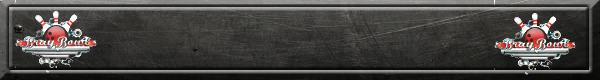
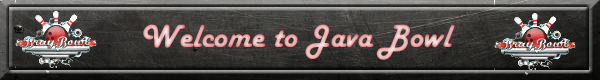
merged with the most recent version. this version has the animation and bg image at full opacity. will have a look at the booking forms to get payment details at a later stage

Changed region(s): [[0.24, 0.3, 0.78, 0.75]]

diff --git a/src/controller/WelcomeAnimation.java b/src/controller/WelcomeAnimation.java
@@ -6,62 +6,53 @@ import java.awt.*;
 /**
  * Created by User on 08/04/2015.
  */
-public class WelcomeAnimation extends JComponent {
+public class WelcomeAnimation extends JPanel {
 
-    private Image pins, barrier;
-    private int x = 0;
-    private int y = 0;
-    private boolean movingDown = true;
-    private boolean finished;
-    private boolean grabbed;
+        //System.out.println("      #########################   In the welcome class  ##################");
 
-    public WelcomeAnimation() {
-        Thread animationThread = new Thread(new Runnable() {
-            public void run() {
 
-                while (!finished) {
-                    System.out.println("         --------------------                  in thw while loop "+y);
-                    repaint();
-                    try {
-                        Thread.sleep(15);
-                        System.out.println("         --------------------                  INSIDE welcome animation k    y =  "+y);
-                    } catch (Exception ex) {
+        private JPanel hope;
+        private Image pins, barrier;
+        private int x ;
+        private int y ;
+        private boolean movingDown = true;
+        private boolean finished;
+        private boolean grabbed;
+
+        public WelcomeAnimation(int width, int height) {
+
+            x= 125;
+            y= 0;
+
+            final Thread animationThread;
+            animationThread = new Thread(new Runnable() {
+                public void run() {
+                    while (!finished) {
+                        repaint();
+                        try {
+                            Thread.sleep(15);
+                            System.out.println("         --------------------                  INSIDE welcome animation --    y = " + y);
+                        } catch (Exception ex) {
+                        }
                     }
                 }
-            }
-        });
+            });
 
-        animationThread.start();
-    }
+            animationThread.setDaemon(true);
+            animationThread.start();
 
-    public void beginOperations()
-    {
-        Thread animationThread = new Thread(new Runnable() {
-            public void run() {
+        }
 
-                while (!finished) {
-                    //repaint();
-                    try {
-                        Thread.sleep(150);
-                        System.out.println("         --------------------                  INSIDE welcome animation k    y =  "+y);
-                    } catch (Exception ex) {
-                    }
-                }
-            }
-
-
-        });
-
-        animationThread.start();
-
+    public boolean isFinished() {
+        return finished;
     }
 
     public void paintComponent(Graphics g) {
         System.out.println("In Repaint");
+        super.paintComponent(g);
         Graphics2D gg = (Graphics2D) g;
         ImageIcon p = new ImageIcon("C:/Users/User/Documents/GitBowling/3BallSplitBowling/src/lib/bowling-pins-600-300x300.png");
         ImageIcon b = new ImageIcon("C:/Users/User/Documents/GitBowling/3BallSplitBowling/src/lib/files/barrier.png");
-
 
         barrier = b.getImage();
         pins = p.getImage();
@@ -71,36 +62,25 @@ public class WelcomeAnimation extends JComponent {
         System.out.println("In Repaint 2");
         gg.drawImage(pins, x, y - 600, this);
         gg.drawImage(barrier, x, y-300, this);
-        Font text = new Font("Arial", Font.BOLD, 12);
+        Font text = new Font("Arial", Font.BOLD, 18);
         gg.setFont(text);
         gg.setColor(Color.YELLOW);
-        gg.drawString("WELCOME", x + 150, y - 260);
-        System.out.println("In Repaint 3");
+
         y += 5;
-        if(y>600)
+        if(y>500)
             finished = true;
-        System.out.println("Value of x = " + x + "\tValue of y = " + y + "\tMoving = " + movingDown + "\tFinished = " + finished);
+
+        System.out.println("is finished = "+isFinished());
+
     }
 
-
-   /* public void run() {
-        while (!finished) {
-            System.out.println("                        --------------------                  INSIDE welcome animation     y =  "+y);
-            repaint();
-            try {
-                Thread.sleep(15);
-            } catch (Exception ex) {
-            }
-        }
-    }*/
-
-    public static void main(String[] args) {
+    /*public static void main(String[] args) {
         JFrame frame = new JFrame("Train Demo");
         frame.setDefaultCloseOperation(JFrame.EXIT_ON_CLOSE);
         frame.setSize(620, 600);
         frame.setLocationRelativeTo(null);
         frame.add(new WelcomeAnimation());
         frame.setVisible(true);
-    }
+    }*/
 }
 

diff --git a/src/db/MainProgramOperations.java b/src/db/MainProgramOperations.java
@@ -326,8 +326,8 @@ public class MainProgramOperations {
             pStmt.setString(2, s.getfName());
             pStmt.setInt(3, 0);// when adding a new staff member they have ZERO bookings
             pStmt.setString(4, s.getPhone());
-            pStmt.setString(5, s.getLogin());
-            pStmt.setString(6, s.getEmail());
+            pStmt.setString(5, s.getEmail());
+            pStmt.setString(6, s.getLogin());
             pStmt.setString(7, s.getPassword());
             pStmt.setString(8, s.getSecQuestion());
             pStmt.setString(9, s.getSecAnswer());
@@ -941,6 +941,42 @@ public class MainProgramOperations {
         }
         return count;
     }
+
+    /*public int [] getTimes(String start, String end) {
+        System.out.println("Inside : getTimes() in MainProgramOperations");
+        int [] count = new int[0];
+        int size = 0;
+        try {
+            String queryString = "SELECT COUNT(timeSlotId) " +
+                    "FROM timeSlots " +
+                    "WHERE timeDescription " +
+                    "BETWEEN '" + start + "'" +
+                    "AND '" + end + "'";
+            pStmt = conn.prepareStatement(queryString);
+            rSet = pStmt.executeQuery();
+            while (rSet.next()) {
+                size = rSet.getInt(1);
+            }
+            rSet.close();
+
+            String queryString2 = "SELECT timeSlotId " +
+                    "FROM timeSlots " +
+                    "WHERE timeDescription " +
+                    "BETWEEN '" + start + "'" +
+                    "AND '" + end + "'";
+            pStmt = conn.prepareStatement(queryString2);
+            rSet = pStmt.executeQuery();
+            count = new int[size];
+            int index = 0;
+            while (rSet.next()) {
+                count[index] = rSet.getInt(1);
+                index++;
+            }
+        } catch (Exception e) {
+            System.out.println(e);
+        }
+        return count;
+    }*/
 ///// End of TimeSlots Queries ///////////////////////////////////
 
 

diff --git a/src/gui/HomeTab.java b/src/gui/HomeTab.java
@@ -1,5 +1,6 @@
 package gui;
 
+import controller.WelcomeAnimation;
 import db.MainProgramOperations;
 import model.*;
 import controller.ModifyDateAndTime;
@@ -37,6 +38,7 @@ public class HomeTab extends JPanel {
     private SimpleDateFormat format;
     private Date dateSelected;
     private int yr, mon, day;
+    private Image laneBg;
 
     public HomeTab(Date date, ArrayList<Booking> b, ArrayList<BookingDetails> bd, ArrayList<Member> m, ArrayList<TimeSlot> t,
                    ArrayList<Lane> l, MainProgramOperations po) {
@@ -48,6 +50,10 @@ public class HomeTab extends JPanel {
         this.memList = m;
         this.timeSlotList = t;
         this.laneList = l;
+
+
+        ImageIcon bg = new ImageIcon("src/lib/files/laneBG.png");
+        laneBg = bg.getImage();
 
         this.setPreferredSize(new Dimension(780, 300));
         setLayout(new BorderLayout());
@@ -63,11 +69,16 @@ public class HomeTab extends JPanel {
         ChartPanel chartPanel = new ChartPanel(chart);
 
         CategoryPlot plot = chart.getCategoryPlot();
-        BarRenderer renderer = (BarRenderer) plot.getRenderer();
-        // set the color (r,g,b)
-        Color color = new Color(2, 171, 33);
-        renderer.setSeriesPaint(0, color);
 
+        plot.setBackgroundPaint(new Color(255, 255, 255, 0));
+
+        BarRenderer renderer = (BarRenderer) plot.getRenderer();
+        // The last int controls the transparency of the bars. 0 = invisible, 255 = solid
+        Color color = new Color(83, 23, 171,190);
+        renderer.setSeriesPaint(0, color);
+        plot.setBackgroundImageAlpha(1.0f);
+        plot.setBackgroundImage(laneBg);
+        System.out.println("  ====================         BG      alpha  ===    " + plot.getBackgroundImageAlpha());
         this.add(chartPanel, BorderLayout.CENTER);
         this.setVisible(true);
     }

diff --git a/src/gui/LoginGUI.java b/src/gui/LoginGUI.java
@@ -164,14 +164,19 @@ public class LoginGUI extends JFrame implements ActionListener {
         System.out.println("Inside : actionPerformed() in LoginGUI");
         if(ae.getSource()==login) {
             if(login()==true) {
-                //this.add(new WelcomeAnimation());
-               // p1.add(new WelcomeAnimation(), BorderLayout.CENTER);
-                JOptionPane.showMessageDialog(null,
-                            "logged in", "ERROR", JOptionPane.WARNING_MESSAGE);
+                int width = this.getWidth();
+                int height = this.getHeight();
+                System.out.println("          width = "+width+"   ********     Height = "+height);
+                //JPanel animation;
+                Color tranparent = new Color(0,0,0,0);
+                WelcomeAnimation animation = new WelcomeAnimation(width,height);
+                //animation.setBackground(tranparent);
+                animation.setPreferredSize(new Dimension(width,height));
+                this.add(animation, BorderLayout.CENTER);
+                setVisible(true);
 
-                WelcomeAnimation wc = new WelcomeAnimation();
-                this.add(wc);
-                wc.repaint();
+                JOptionPane.showMessageDialog(null, "Press to Enter","Welcome to Java Bowling",
+                        JOptionPane.CLOSED_OPTION);
 
                 Staff user = progOps.createUser(userTxt.getText());
                 System.out.println("      WHAT IS THE VALUE OF isadmin:   "+user.isAdmin());

diff --git a/src/model/Alley.java b/src/model/Alley.java
@@ -37,12 +37,13 @@ public class Alley {
             System.out.println(e);
         }
 
+        System.out.println("    ///////////////  ******************              Just before get Staff in alley");
         rSet = progOps.getStaff();
         try {
             while (rSet.next()) {
                 staffList.add(new Staff(rSet.getInt(1), rSet.getString(2), rSet.getString(3),  rSet.getInt(4),
-                        rSet.getString(5), rSet.getString(6), rSet.getString(7), rSet.getString(8), rSet.getString(9),
-                        rSet.getString(10), rSet.getString(11), rSet.getString(12), rSet.getString(13)));
+                        rSet.getString(5), rSet.getString(6), rSet.getString(7), rSet.getString(8)));
+                System.out.println(rSet.getInt(1)+"\t"+ rSet.getString(2)+"\t"+  rSet.getString(3));
             }
         } catch (Exception e) {
             System.out.println(e);

diff --git a/src/gui/MainScreen.java b/src/gui/MainScreen.java
@@ -45,6 +45,8 @@ public class MainScreen extends JFrame implements ActionListener {
     public static Date dateSelected;
     private java.util.Date juDate ;
     private DateTime dt;
+    private Format formatter;
+    private Alley list;
     private Staff user;
 
     public MainScreen(Staff user, ArrayList<Member> m, ArrayList<Staff> s, ArrayList<Stock> st, ArrayList<Booking> b,
@@ -117,6 +119,7 @@ public class MainScreen extends JFrame implements ActionListener {
         help.setOpaque(true);
         p1.add(help, BorderLayout.EAST);
         help.addActionListener(this);
+
 
         // Add Panel 2
         p2 = new JPanel();

diff --git a/src/gui/AddBookingGUI.java b/src/gui/AddBookingGUI.java
@@ -104,7 +104,7 @@ public class AddBookingGUI implements ActionListener {
                     String type = ge.typeCombo.getSelectedItem().toString();
                     if (numValidator.isNumeric(ge.noGamesTxt.getText())) {
                         Booking b = new Booking(bookingId, memId, staffId, noLanes, games, 1,  noPlayers, pricingPerHr, type);
-                        progOps.addBooking(b);
+                        //progOps.addBooking(b);
                         Alley a = new Alley(progOps);
                         a.addBooking();
                         bTab.refreshTable();

diff --git a/src/gui/StaffTab.java b/src/gui/StaffTab.java
@@ -112,7 +112,7 @@ public class StaffTab extends JPanel implements ActionListener, ItemListener {
     }
 
     public void fillTable(ArrayList<Staff> s) {
-        System.out.println("Inside : fillTable() in StaffTabGUI");
+        System.out.println("Inside : fillTable() in StaffTab");
         this.staffList = s;
         for (int i = 0; i < staffList.size(); i ++) {
             model.addRow(new Object[]{staffList.get(i).getId(), staffList.get(i).getlName(), staffList.get(i).getfName(), staffList.get(i).getBookings(),

diff --git a/src/test/TestProgram.java b/src/test/TestProgram.java
@@ -1,5 +1,6 @@
 package test;
 
+import controller.WelcomeAnimation;
 import db.MainProgramOperations;
 import gui.LoginGUI;
 import gui.MainScreen;
@@ -12,6 +13,7 @@ public class TestProgram {
         System.out.println("Inside : TestProgram");
 
         MainProgramOperations progOps = new MainProgramOperations();
+        //WelcomeAnimation hello = new WelcomeAnimation();
         LoginGUI ls = new LoginGUI(progOps);
     }
 }
